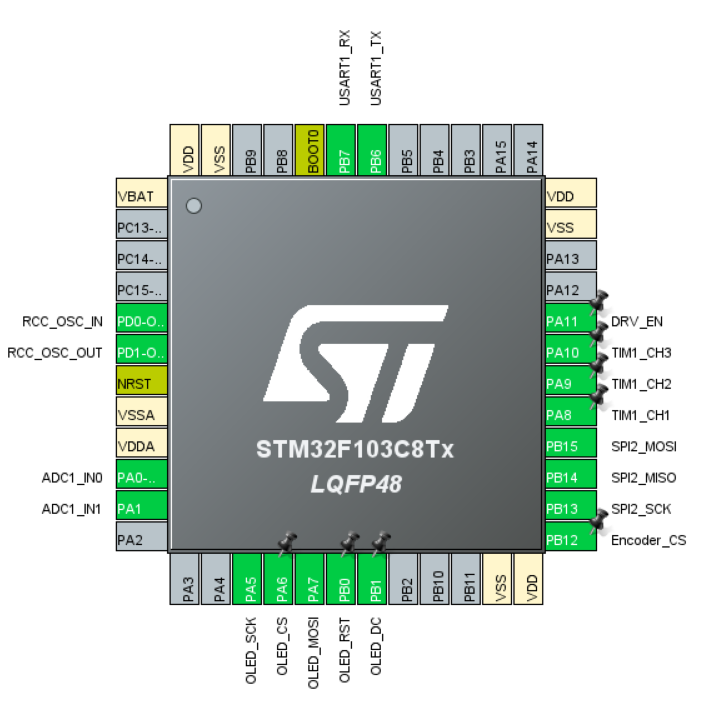
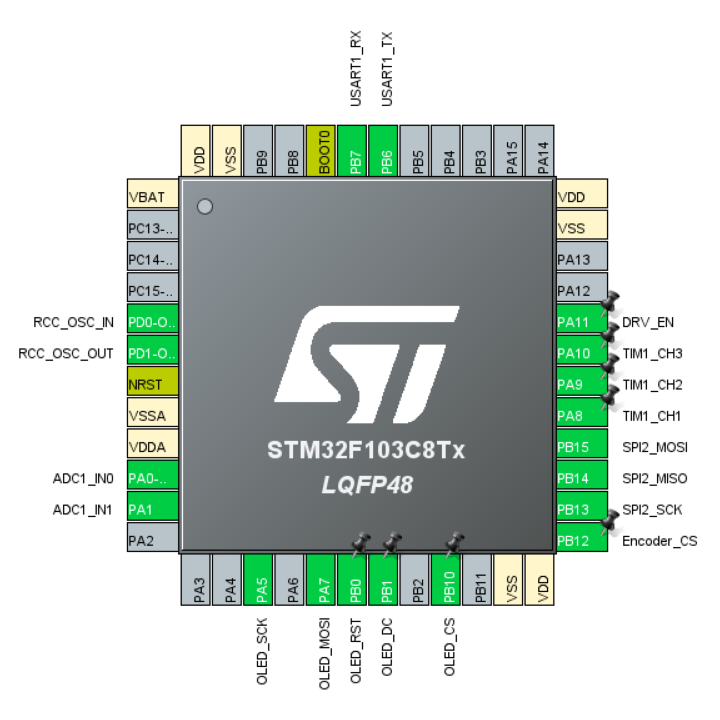
feat: add oled base code and change OLED_CS pin

Changed region(s): [[0.0, 0.0299, 0.9858, 0.9858], [0.3585, 0.4182, 0.6572, 0.7169]]

diff --git a/Software/foc/Hardware/Src/oled.c b/Software/foc/Hardware/Src/oled.c
@@ -1,5 +1,4 @@
 #include "oled.h"
-#include "u8g2.h"
 #include "led.h"
 
 #include "stm32f1xx_ll_bus.h"
@@ -17,19 +16,13 @@ static void oled_gpio_init(void) {
     LL_APB2_GRP1_EnableClock(LL_APB2_GRP1_PERIPH_GPIOB);
     LL_APB2_GRP1_EnableClock(LL_APB2_GRP1_PERIPH_GPIOA);
 
-    /* OLED RST and DC pins */
-    LL_GPIO_SetOutputPin(OLED_RST_DC_GPIO_PORT, OLED_RST_PIN | OLED_DC_PIN);
-    GPIO_InitStruct.Pin = OLED_RST_PIN | OLED_DC_PIN;
-    GPIO_InitStruct.Mode = LL_GPIO_MODE_OUTPUT;
-    GPIO_InitStruct.Speed = LL_GPIO_SPEED_FREQ_HIGH;
+    /* OLED RST, DC, CS pins */
+    LL_GPIO_SetOutputPin(OLED_RST_DC_CS_GPIO_PORT, OLED_RST_PIN | OLED_DC_PIN | OLED_CS_PIN);
+    GPIO_InitStruct.Pin        = OLED_RST_PIN | OLED_DC_PIN | OLED_CS_PIN;
+    GPIO_InitStruct.Mode       = LL_GPIO_MODE_OUTPUT;
+    GPIO_InitStruct.Speed      = LL_GPIO_SPEED_FREQ_HIGH;
     GPIO_InitStruct.OutputType = LL_GPIO_OUTPUT_PUSHPULL;
-    LL_GPIO_Init(OLED_RST_DC_GPIO_PORT, &GPIO_InitStruct);
-
-    /* OELD CS pin */
-    LL_GPIO_SetOutputPin(OLED_CS_SCK_MOSI_GPIO_PORT, OLED_CS_PIN);
-    GPIO_InitStruct.Pin = OLED_CS_PIN;
-    LL_GPIO_Init(OLED_CS_SCK_MOSI_GPIO_PORT, &GPIO_InitStruct);
-
+    LL_GPIO_Init(OLED_RST_DC_CS_GPIO_PORT, &GPIO_InitStruct);
 }
 
 static void oled_spi1_init(void) {
@@ -48,7 +41,7 @@ static void oled_spi1_init(void) {
     GPIO_InitStruct.Mode       = LL_GPIO_MODE_ALTERNATE;
     GPIO_InitStruct.Speed      = LL_GPIO_SPEED_FREQ_HIGH;
     GPIO_InitStruct.OutputType = LL_GPIO_OUTPUT_PUSHPULL;
-    LL_GPIO_Init(OLED_CS_SCK_MOSI_GPIO_PORT, &GPIO_InitStruct);
+    LL_GPIO_Init(OLED_SCK_MOSI_GPIO_PORT, &GPIO_InitStruct);
 
     SPI_InitStruct.TransferDirection = LL_SPI_FULL_DUPLEX;
     SPI_InitStruct.Mode              = LL_SPI_MODE_MASTER;
@@ -112,13 +105,13 @@ uint8_t u8x8_byte_4wire_hw_spi(
             break;
         case U8X8_MSG_BYTE_SET_DC: // Setup DC pin, which determines CMD or Data transferred through SPI
             if (arg_int) {
-                LL_GPIO_SetOutputPin(OLED_RST_DC_GPIO_PORT, OLED_DC_PIN); // Data
+                LL_GPIO_SetOutputPin(OLED_RST_DC_CS_GPIO_PORT, OLED_DC_PIN); // Data
             } else {
-                LL_GPIO_ResetOutputPin(OLED_RST_DC_GPIO_PORT, OLED_DC_PIN); // CMD
+                LL_GPIO_ResetOutputPin(OLED_RST_DC_CS_GPIO_PORT, OLED_DC_PIN); // CMD
             }
             break;
         case U8X8_MSG_BYTE_START_TRANSFER: // Software CS is needed. (select)
-            LL_GPIO_ResetOutputPin(OLED_CS_SCK_MOSI_GPIO_PORT, OLED_CS_PIN);
+            LL_GPIO_ResetOutputPin(OLED_RST_DC_CS_GPIO_PORT, OLED_CS_PIN);
             u8x8->gpio_and_delay_cb(u8x8, U8X8_MSG_DELAY_NANO, u8x8->display_info->post_chip_enable_wait_ns, NULL);
             break;
         case U8X8_MSG_BYTE_END_TRANSFER:  // Software CS is needed. (deselect)
@@ -126,7 +119,7 @@ uint8_t u8x8_byte_4wire_hw_spi(
                 __NOP();
             }
             u8x8->gpio_and_delay_cb(u8x8, U8X8_MSG_DELAY_NANO, u8x8->display_info->pre_chip_disable_wait_ns, NULL);
-            LL_GPIO_SetOutputPin(OLED_CS_SCK_MOSI_GPIO_PORT, OLED_CS_PIN);
+            LL_GPIO_SetOutputPin(OLED_RST_DC_CS_GPIO_PORT, OLED_CS_PIN);
             break;
         default:
             return 0;
@@ -151,35 +144,43 @@ uint8_t u8x8_stm32_gpio_and_delay(
             break;
         case U8X8_MSG_GPIO_RESET: // gpio reset
             if (arg_int) {
-                LL_GPIO_SetOutputPin(OLED_RST_DC_GPIO_PORT, OLED_RST_PIN);
+                LL_GPIO_SetOutputPin(OLED_RST_DC_CS_GPIO_PORT, OLED_RST_PIN);
             } else {
-                LL_GPIO_ResetOutputPin(OLED_RST_DC_GPIO_PORT, OLED_RST_PIN);
+                LL_GPIO_ResetOutputPin(OLED_RST_DC_CS_GPIO_PORT, OLED_RST_PIN);
             }
             break;
     }
     return 1;
 }
 
-void u8g2_init(u8g2_t *u8g2) {
+void u8g2Init(u8g2_t *u8g2) {
     u8g2_Setup_ssd1306_128x64_noname_f(u8g2, U8G2_R0, u8x8_byte_4wire_hw_spi, u8x8_stm32_gpio_and_delay);
     u8g2_InitDisplay(u8g2); // init ssd1306, the screen is off
     u8g2_SetPowerSave(u8g2, 0); // turn on the screen
     u8g2_ClearBuffer(u8g2);
-
-    LL_mDelay(1000);
-
-    u8g2_DrawLine(u8g2, 0, 0, 127, 63);
-    u8g2_DrawLine(u8g2, 127, 0, 0, 63);
-    u8g2_SendBuffer(u8g2);
-    LL_mDelay(1000);
+    LL_mDelay(100);
 }
 
+u8g2_t u8g2;
+uint8_t* g_u8g2_buf_ptr;
+uint16_t g_u8g2_buf_len;
 void oled_init(void) {
     oled_gpio_init();
     oled_spi1_init();
 
-    u8g2_t u8g2;
-    u8g2_init(&u8g2);
+    u8g2Init(&u8g2);
+    u8g2_SetFont(&u8g2, u8g2_font_ncenB08_tr);
+    g_u8g2_buf_ptr = u8g2_GetBufferPtr(&u8g2);
+    g_u8g2_buf_len = 8 * u8g2_GetBufferTileHeight(&u8g2) * u8g2_GetBufferTileWidth(&u8g2);
+}
+
+void oled_test(void) {
+    // clear screen
+    u8g2_DrawLine(&u8g2, 0, 0, 127, 63);
+    u8g2_DrawLine(&u8g2, 127, 0, 0, 63);
+    u8g2_SendBuffer(&u8g2);
+    LL_mDelay(500);
+
     u8g2_FirstPage(&u8g2);
     do
     {

diff --git a/Software/foc/Drivers/menu/Src/base.c b/Software/foc/Drivers/menu/Src/base.c
@@ -1,0 +1,116 @@
+#include "base.h"
+#include "qfplib-m3.h"
+
+#include <stdio.h>
+
+MenuBase g_menu_base;
+static uint8_t str_buf[16];
+
+static void get_str_width(const char *str) {
+    u8g2_GetStrWidth(&u8g2, str);
+}
+
+static void draw_str(u8g2_uint_t x, u8g2_uint_t y, const char *str) {
+    u8g2_DrawStr(&u8g2, x, y, str);
+}
+
+static void draw_num(u8g2_uint_t x, u8g2_uint_t y, float num) {
+    sprintf(str_buf, "%.2f", num);
+    u8g2_DrawStr(&u8g2, x, y, str_buf);
+}
+
+static void draw_pixel(u8g2_uint_t x, u8g2_uint_t y) {
+    u8g2_DrawPixel(&u8g2, x, y);
+}
+
+static void draw_hline(u8g2_uint_t x, u8g2_uint_t y, u8g2_uint_t w) {
+    u8g2_DrawHLine(&u8g2, x, y, w);
+}
+
+static void draw_vline(u8g2_uint_t x, u8g2_uint_t y, u8g2_uint_t h) {
+    u8g2_DrawVLine(&u8g2, x, y, h);
+}
+
+static void draw_line(u8g2_uint_t x1, u8g2_uint_t y1, u8g2_uint_t x2, u8g2_uint_t y2) {
+    u8g2_DrawLine(&u8g2, x1, y1, x2, y2);
+}
+
+static void draw_rect(u8g2_uint_t x, u8g2_uint_t y, u8g2_uint_t w, u8g2_uint_t h) {
+    u8g2_DrawBox(&u8g2, x, y, w, h);
+}
+
+static void draw_round_rect(u8g2_uint_t x, u8g2_uint_t y, u8g2_uint_t w, u8g2_uint_t h, u8g2_uint_t r) {
+    u8g2_DrawRBox(&u8g2, x, y, w, h, r);
+}
+
+static void draw_fill_rect(u8g2_uint_t x, u8g2_uint_t y, u8g2_uint_t w, u8g2_uint_t h) {
+    u8g2_DrawFrame(&u8g2, x, y, w, h);
+}
+static void draw_fill_round_rect(u8g2_uint_t x, u8g2_uint_t y, u8g2_uint_t w, u8g2_uint_t h, u8g2_uint_t r) {
+    u8g2_DrawRFrame(&u8g2, x, y, w, h, r);
+}
+
+static void draw_circle(u8g2_uint_t cx, u8g2_uint_t cy, u8g2_uint_t r, uint8_t option) {
+    u8g2_DrawCircle(&u8g2, cx, cy, r, option);
+}
+
+static void draw_circle_full(u8g2_uint_t cx, u8g2_uint_t cy, u8g2_uint_t r) {
+    u8g2_DrawCircle(&u8g2, cx, cy, r, U8G2_DRAW_ALL);
+}
+
+static void draw_circle_full_center(u8g2_uint_t cx, u8g2_uint_t cy, u8g2_uint_t r) {
+    draw_circle_full(OLED_WIDTH / 2 + cx, OLED_HEIGHT / 2 + cy, r);
+}
+
+/**
+ * @param x0 x axis value of rect center
+ * @param y0 y axis value of rect center
+ */
+static void draw_rotated_rect(float x0, float y0, float w, float h, float rad) {
+    float c  = qfp_fcos(rad);
+    float s  = qfp_fsin(rad);
+    float ws = qfp_fmul(w, s);
+    float wc = qfp_fmul(w, c);
+    float hs = qfp_fmul(h, s);
+    float hc = qfp_fmul(h, c);
+
+    u8g2_ClearPolygonXY();
+    u8g2_AddPolygonXY(&u8g2, qfp_fadd(qfp_fadd(-wc,  hs), x0), qfp_fadd(qfp_fadd(-ws, -hc), y0));
+    u8g2_AddPolygonXY(&u8g2, qfp_fadd(qfp_fadd( wc,  hs), x0), qfp_fadd(qfp_fadd( ws, -hc), y0));
+    u8g2_AddPolygonXY(&u8g2, qfp_fadd(qfp_fadd( wc, -hs), x0), qfp_fadd(qfp_fadd( ws,  hc), y0));
+    u8g2_AddPolygonXY(&u8g2, qfp_fadd(qfp_fadd(-wc, -hs), x0), qfp_fadd(qfp_fadd(-ws,  hc), y0));
+    u8g2_DrawPolygon(&u8g2);
+}
+
+static void set_color(uint8_t c) {
+    u8g2_SetDrawColor(&u8g2, c);
+}
+
+static void clear(void) {
+    u8g2_ClearBuffer(&u8g2);
+}
+
+static void update(void) {
+    u8g2_SendBuffer(&u8g2);
+}
+
+void menu_init(void) {
+    g_menu_base.get_str_width           = get_str_width;
+    g_menu_base.draw_str                = draw_str;
+    g_menu_base.draw_num                = draw_num;
+    g_menu_base.draw_pixel              = draw_pixel;
+    g_menu_base.draw_hline              = draw_hline;
+    g_menu_base.draw_vline              = draw_vline;
+    g_menu_base.draw_line               = draw_line;
+    g_menu_base.draw_rect               = draw_rect;
+    g_menu_base.draw_round_rect         = draw_round_rect;
+    g_menu_base.draw_fill_rect          = draw_fill_rect;
+    g_menu_base.draw_fill_round_rect    = draw_fill_round_rect;
+    g_menu_base.draw_circle             = draw_circle;
+    g_menu_base.draw_circle_full        = draw_circle_full;
+    g_menu_base.draw_circle_full_center = draw_circle_full_center;
+    g_menu_base.draw_rotated_rect       = draw_rotated_rect;
+    g_menu_base.set_color               = set_color;
+    g_menu_base.clear                   = clear;
+    g_menu_base.update                  = update;
+}

diff --git a/Software/foc/Drivers/menu/Inc/base.h b/Software/foc/Drivers/menu/Inc/base.h
@@ -1,0 +1,46 @@
+/**
+ * @file base.h
+ * @author HangX-Ma (contour.9x@gmail.com)
+ * @brief u8g2 menu base function set
+ * @version 0.1
+ * @date 2022-08-05
+ *
+ * @copyright Copyright (c) 2022 - 2023
+ *
+ * Licensed under the Apache License, Version 2.0 (the "License");
+ * you may not use this file except in compliance with the License.
+ * You may obtain a copy of the License at
+ *
+ *    http://www.apache.org/licenses/LICENSE-2.0
+ *
+ * Unless required by applicable law or agreed to in writing, software
+ * distributed under the License is distributed on an "AS IS" BASIS,
+ * WITHOUT WARRANTIES OR CONDITIONS OF ANY KIND, either express or implied.
+ * See the License for the specific language governing permissions and
+ * limitations under the License.
+ */
+
+#include "utils.h"
+#include "oled.h"
+
+typedef struct MenuBase {
+    void (*get_str_width)(const char *);
+    void (*draw_str)(u8g2_uint_t, u8g2_uint_t, const char *);
+    void (*draw_num)(u8g2_uint_t, u8g2_uint_t, float);
+    void (*draw_pixel)(u8g2_uint_t, u8g2_uint_t);
+    void (*draw_hline)(u8g2_uint_t, u8g2_uint_t, u8g2_uint_t);
+    void (*draw_vline)(u8g2_uint_t, u8g2_uint_t, u8g2_uint_t);
+    void (*draw_line)(u8g2_uint_t, u8g2_uint_t, u8g2_uint_t, u8g2_uint_t);
+    void (*draw_rect)(u8g2_uint_t, u8g2_uint_t, u8g2_uint_t, u8g2_uint_t);
+    void (*draw_round_rect)(u8g2_uint_t, u8g2_uint_t, u8g2_uint_t, u8g2_uint_t, u8g2_uint_t);
+    void (*draw_fill_rect)(u8g2_uint_t, u8g2_uint_t, u8g2_uint_t, u8g2_uint_t);
+    void (*draw_fill_round_rect)(u8g2_uint_t, u8g2_uint_t, u8g2_uint_t, u8g2_uint_t, u8g2_uint_t);
+    void (*draw_circle)(u8g2_uint_t, u8g2_uint_t, u8g2_uint_t, uint8_t);
+    void (*draw_circle_full)(u8g2_uint_t, u8g2_uint_t, u8g2_uint_t);
+    void (*draw_circle_full_center)(u8g2_uint_t, u8g2_uint_t, u8g2_uint_t);
+    void (*draw_rotated_rect)(float, float, float, float, float);
+    void (*set_color)(uint8_t c);
+    void (*clear)(void);
+    void (*update)(void);
+} MenuBase;
+extern MenuBase g_menu_base;

diff --git a/Software/foc/Hardware/Inc/oled.h b/Software/foc/Hardware/Inc/oled.h
@@ -1,5 +1,3 @@
-
-
 /**
  * @file oled.h
  * @author HangX-Ma (contour.9x@gmail.com)
@@ -26,21 +24,29 @@
 #define __OLED__H__
 
 #include "utils.h"
+#include "u8g2.h"
 
-
-#define OLED_CS_SCK_MOSI_GPIO_PORT  GPIOA
-#define OLED_CS_PIN                 LL_GPIO_PIN_6
+#define OLED_SCK_MOSI_GPIO_PORT  GPIOA
 #define OLED_SCK_PIN                LL_GPIO_PIN_5
 #define OLED_MOSI_PIN               LL_GPIO_PIN_7
 
 
-#define OLED_RST_DC_GPIO_PORT       GPIOB
+#define OLED_RST_DC_CS_GPIO_PORT    GPIOB
 #define OLED_RST_PIN                LL_GPIO_PIN_0
 #define OLED_DC_PIN                 LL_GPIO_PIN_1
+#define OLED_CS_PIN                 LL_GPIO_PIN_10
 
 #define OLED_DMAx_Tx_IRQHandler     DMA1_Channel3_IRQHandler
 #define OLED_SPI_DMAx_Tx_CHANNEL    LL_DMA_CHANNEL_3
 
-void oled_init();
+#define OLED_WIDTH                  128
+#define OLED_HEIGHT                 64
+
+extern u8g2_t u8g2;
+extern uint8_t* g_u8g2_buf_ptr;
+extern uint16_t g_u8g2_buf_len;
+
+void oled_init(void);
+void oled_test(void);
 
 #endif  //!__OLED__H__

diff --git a/Software/foc/Core/Src/main.c b/Software/foc/Core/Src/main.c
@@ -56,13 +56,15 @@ int main(void) {
 
     //* Initialize all configured peripherals start
     vofa_usart_init();
-    bldc_init();
-    encoder_init();
+    // bldc_init();
+    // encoder_init();
     led_init();
-    // oled_init();
-    current_mointor_init();
-
+    // current_mointor_init();
+    oled_init();
     //* Initialize all configured peripherals end
+
+    // ------------ OLED test -----------------
+    oled_test();
 
     /* Infinite loop */
 #if USART_FLOAT_TEST
@@ -92,7 +94,7 @@ int main(void) {
         // ------------ Encoder test ------------
         // encoder_test();
         // ------------ Current Monitor test ------------
-        current_monitor_test(bldc_test2_svpwm());
+        // current_monitor_test(bldc_test2_svpwm());
     }
 }
 

diff --git a/README.md b/README.md
@@ -23,7 +23,7 @@ Except for this, <span style="color: #98C379; font-weight: bold;">`Software/foc/
 ## Environment
 
 - **Serial Port Tool:** [Vofa+](https://www.vofa.plus/downloads/?v=7/17/2023)
-- **OLED UI:** [WouoUI](https://github.com/RQNG/WouoUI)
+- **OLED UI:** [WouoUI](https://github.com/RQNG/WouoUI), [uYanki/menu](https://github.com/uYanki/board-stm32f103rc-berial/tree/main/7.Example/hal/gui/u8g2/02_menu), [小蛋显璐](https://www.bilibili.com/video/BV1RY411f7GT/?share_source=copy_web&vd_source=1056f83cab1f5ee1d05548018d3e8731)
 - **Dev Tools:** VSCode, CMake, OpenOCD, STLInk-v2, STM32CubeMX
 - **Debugger:** Cortex-Debug
 - **Library:** [u8g2](https://github.com/olikraus/u8g2), [Qfplib-M3](https://www.quinapalus.com/qfplib-m3.html)
@@ -34,6 +34,10 @@ Except for this, <span style="color: #98C379; font-weight: bold;">`Software/foc/
 - Magnetic attached to motor will affect the motor itself, my friend suggests me to use sensorless control strategy.
 
 ## Development Logs
+
+### 2023-07-26
+
+- Add OLED menu base code.
 
 ### 2023-07-25
 
